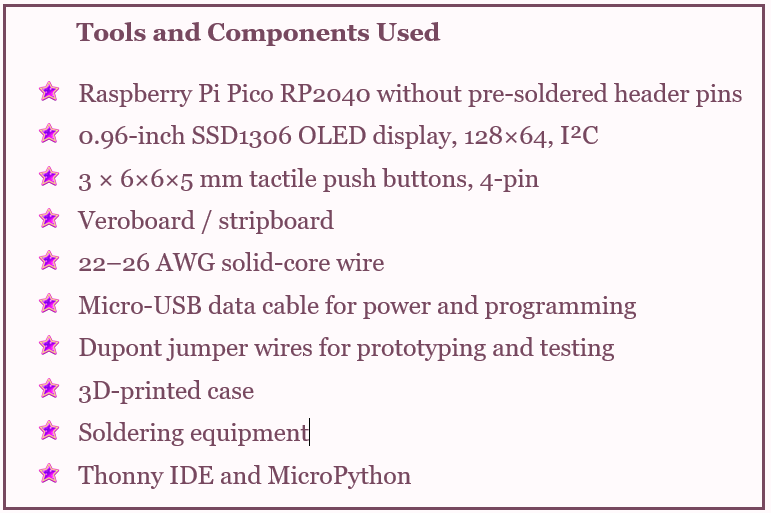
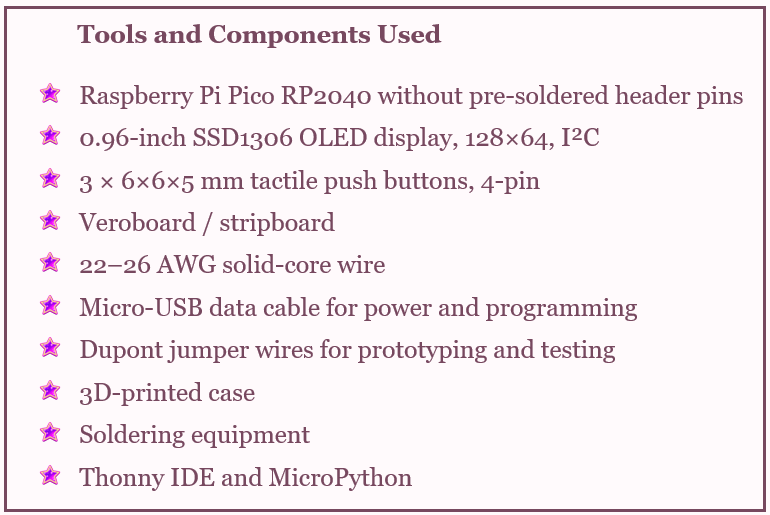
tools used image popup

diff --git a/tamagotchi-image-popup.js b/tamagotchi-image-popup.js
@@ -1,0 +1,97 @@
+(() => {
+  const trigger = document.querySelector("[data-image-popup]");
+  const contentFrame = document.querySelector('iframe.luno-frame[name="window-content"]');
+  if (!trigger && !contentFrame) return;
+
+  // Messages also work between local HTML files, which cannot share their DOM.
+  if (trigger && window.parent !== window && window.name === "window-content") {
+    trigger.addEventListener("click", () => {
+      window.parent.postMessage({
+        type: "tamagotchi:open-tools-image",
+        alt: trigger.querySelector("img").alt
+      }, "*");
+    });
+
+    window.addEventListener("message", (event) => {
+      if (event.source === window.parent && event.data?.type === "tamagotchi:tools-image-closed") {
+        trigger.focus();
+      }
+    });
+    return;
+  }
+
+  const popup = document.createElement("dialog");
+  popup.className = "image-popup";
+  popup.setAttribute("aria-label", "Tools and components used");
+
+  const closeButton = document.createElement("button");
+  closeButton.className = "image-popup-close";
+  closeButton.type = "button";
+  closeButton.textContent = "Close ×";
+  closeButton.autofocus = true;
+
+  const imageContent = document.createElement("div");
+  imageContent.className = "image-popup-content";
+
+  const enlargedImage = document.createElement("img");
+  enlargedImage.className = "image-popup-image";
+  enlargedImage.src = new URL("bilder/tools-used.png", document.baseURI).href;
+  enlargedImage.alt = "Tools and components used for the Tamagotchi project";
+
+  imageContent.append(enlargedImage);
+  popup.append(closeButton, imageContent);
+  document.body.append(popup);
+
+  const openPopup = (alt) => {
+    if (typeof alt === "string") enlargedImage.alt = alt;
+    imageContent.scrollTo(0, 0);
+    if (!popup.open) popup.showModal();
+    document.documentElement.classList.add("image-popup-open");
+  };
+
+  if (trigger) {
+    trigger.addEventListener("click", () => openPopup(trigger.querySelector("img").alt));
+  }
+
+  if (contentFrame) {
+    window.addEventListener("message", (event) => {
+      if (event.source === contentFrame.contentWindow && event.data?.type === "tamagotchi:open-tools-image") {
+        openPopup(event.data.alt);
+      }
+    });
+
+    contentFrame.addEventListener("load", () => {
+      if (popup.open) popup.close();
+    });
+  }
+
+  closeButton.addEventListener("click", () => popup.close());
+
+  popup.addEventListener("click", (event) => {
+    if (event.target !== popup) return;
+
+    const bounds = popup.getBoundingClientRect();
+    if (
+      event.clientX < bounds.left || event.clientX > bounds.right ||
+      event.clientY < bounds.top || event.clientY > bounds.bottom
+    ) {
+      popup.close();
+    }
+  });
+
+  popup.addEventListener("close", () => {
+    document.documentElement.classList.remove("image-popup-open");
+    if (trigger) {
+      trigger.focus();
+    } else {
+      contentFrame.focus();
+      contentFrame.contentWindow.postMessage({ type: "tamagotchi:tools-image-closed" }, "*");
+    }
+  });
+
+  window.addEventListener("pagehide", () => {
+    popup.close();
+    popup.remove();
+    document.documentElement.classList.remove("image-popup-open");
+  });
+})();

diff --git a/tamagotchi-tutorial.html b/tamagotchi-tutorial.html
@@ -5,6 +5,7 @@
   <meta name="viewport" content="width=device-width, initial-scale=1.0">
   <title>Tamagotchi Tutorial</title>
   <link rel="stylesheet" href="tamagotchi.css">
+  <script src="tamagotchi-image-popup.js" defer></script>
 </head>
 <body class="window-content-page">
   <main class="window-content">
@@ -21,12 +22,14 @@
       <p>This project is built around a Raspberry Pi Pico RP2040 running MicroPython. The Pico is connected to a 0.96-inch SSD1306 OLED display using I²C, along with three physical buttons used to control the Tamagotchi.</p>
       <p>The components are mounted on veroboard and connected using short solid-core wires. Once everything has been soldered and tested, the electronics are placed inside a 3D-printed case.</p>
       <p>The Pico is programmed using MicroPython through Thonny, and the project is based on Kevin McAleer's Pico-Tamachibi project. Before permanently soldering everything together, I tested the Pico, OLED display, and buttons individually to make sure each component worked correctly.</p>
-      <img
-        class="tutorial-image"
-        src="bilder/tools-used.png"
-        alt="Tools and components used: a Raspberry Pi Pico RP2040, a 0.96-inch SSD1306 OLED display, three tactile push buttons, veroboard, solid-core wire, a Micro-USB data cable, Dupont jumper wires, a 3D-printed case, soldering equipment, Thonny IDE, and MicroPython"
-        loading="lazy"
-      >
+      <button class="tutorial-image-button" type="button" data-image-popup aria-label="Enlarge tools and components image" aria-haspopup="dialog">
+        <img
+          class="tutorial-image"
+          src="bilder/tools-used.png"
+          alt="Tools and components used: a Raspberry Pi Pico RP2040, a 0.96-inch SSD1306 OLED display, three tactile push buttons, veroboard, solid-core wire, a Micro-USB data cable, Dupont jumper wires, a 3D-printed case, soldering equipment, Thonny IDE, and MicroPython"
+          loading="lazy"
+        >
+      </button>
     </section>
 
     <section class="tutorial-section" aria-labelledby="wiring-heading">

diff --git a/tamagotchi.css b/tamagotchi.css
@@ -273,6 +273,82 @@ body {
   width: 100%;
 }
 
+.tutorial-image-button {
+  display: block;
+  width: min(100%, 400px);
+  margin: 18px auto 0;
+  padding: 0;
+  border: 0;
+  background: none;
+  cursor: zoom-in;
+}
+
+.tutorial-image-button .tutorial-image {
+  width: 100%;
+  margin: 0;
+}
+
+.tutorial-image-button:focus-visible,
+.image-popup-close:focus-visible {
+  outline: 2px solid var(--window-dark);
+  outline-offset: 4px;
+}
+
+.image-popup-open {
+  overflow: hidden;
+}
+
+.image-popup {
+  width: min(70vw, 800px);
+  height: 50dvh;
+  max-width: none;
+  max-height: none;
+  padding: 16px;
+  overflow: hidden;
+  color: var(--window-darkest);
+  background: var(--window-paper);
+  border: 2px solid var(--window-shadow);
+  box-shadow: 0 8px 32px rgba(57, 36, 49, 0.3);
+}
+
+.image-popup[open] {
+  display: flex;
+  flex-direction: column;
+  gap: 12px;
+}
+
+.image-popup::backdrop {
+  background: rgba(57, 36, 49, 0.72);
+}
+
+.image-popup-close {
+  display: block;
+  align-self: flex-end;
+  flex-shrink: 0;
+  margin: 0;
+  padding: 8px 12px;
+  color: var(--window-darkest);
+  background: var(--window-lightest);
+  border: 1px solid var(--window-shadow);
+  font: inherit;
+  font-weight: 700;
+  cursor: pointer;
+}
+
+.image-popup-content {
+  flex: 1;
+  min-height: 0;
+  overflow: auto;
+  overscroll-behavior: contain;
+}
+
+.image-popup-image {
+  display: block;
+  width: 100%;
+  height: 100%;
+  object-fit: contain;
+}
+
 @media (max-width: 480px) {
   .tamagotchi-page {
     padding: 12px;

diff --git a/tamagotchi.html b/tamagotchi.html
@@ -7,6 +7,7 @@
   <title>Tamagotchi</title>
   <link rel="icon" type="image/x-icon" href="bilder/favicon.ico">
   <link rel="stylesheet" href="tamagotchi.css">
+  <script src="tamagotchi-image-popup.js" defer></script>
 </head>
 <body class="tamagotchi-page">
   <div class="scanlines" aria-hidden="true"></div>
